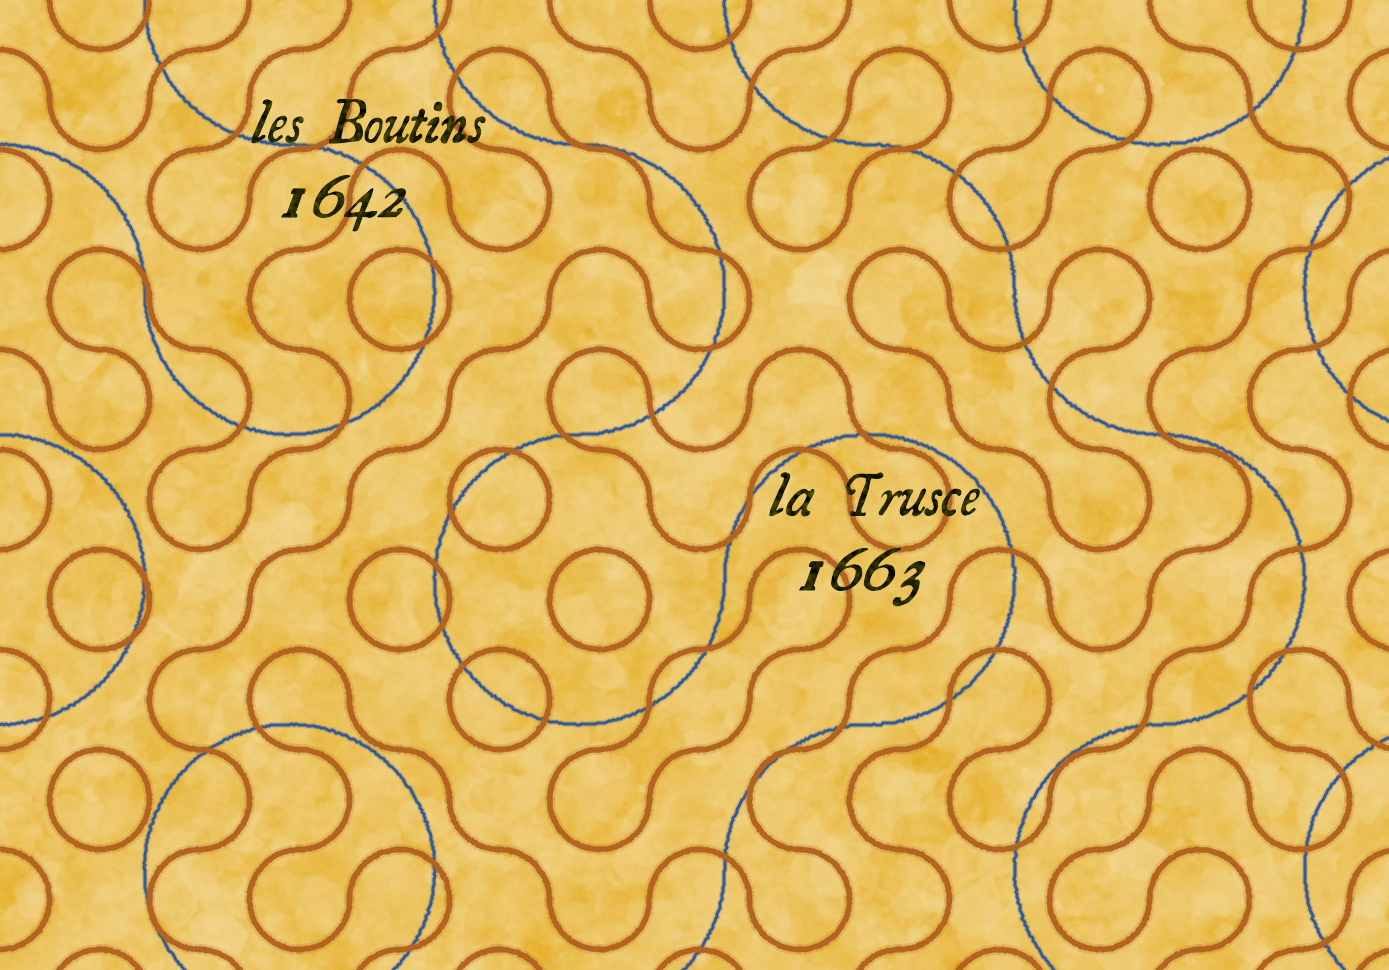
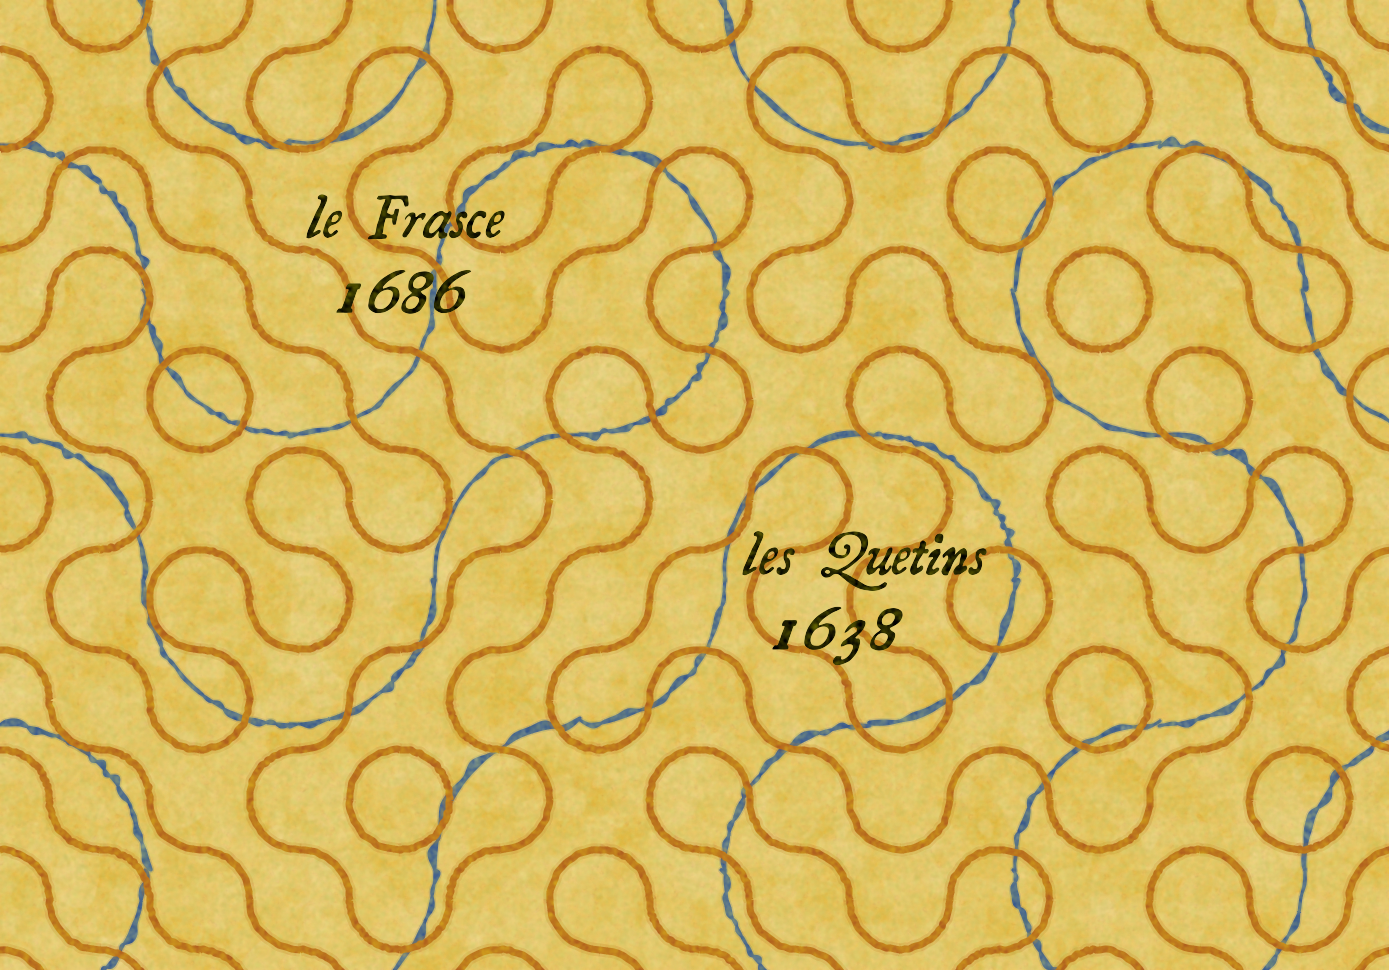
Kind of better
Still not what I was thinking I wanted here :thinking::confused:

diff --git a/la-truche/truche.js b/la-truche/truche.js
@@ -292,7 +292,7 @@ const sketch = (s) => {
       if(fill){
         fac = scene.random(6, 12)
         for(let i = incs; i >= 0; i--){
-          let rr = r + (-fac+2*fac*scene.noise((i*x/20) << 0, (i*y/20) << 0)) // Needs hd
+          let rr = r - (-fac+2*fac*scene.noise((i*x/20) << 0, (i*y/20) << 0)) // Needs hd
           const angle = start + i*inc
           const p = x + rr*Math.cos(angle)
           const q = y + rr*Math.sin(angle)
